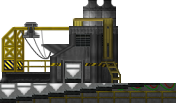
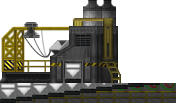
* Raffinerie: Einwurfschacht eingefügt. * Raffinerie: Sound bei Einwurf eines Objekts. * Raffinerie: Grafik aktualisiert. * Script gesäubert.

Changed region(s): [[0.1705, 0.3786, 0.3977, 0.5825], [0.142, 0.3495, 0.1989, 0.4369]]

diff --git a/CMC_LangleyFields.c4s/Structures.c4d/Refinery.c4d/Script.c b/CMC_LangleyFields.c4s/Structures.c4d/Refinery.c4d/Script.c
@@ -29,16 +29,16 @@ protected func Initialize()
   //Ressourcenverarbeitung
   AddEffect("ProcessingResource", this, 1, ProcessingInterval(), this);
 
-	aWaypointX = CreateArray();
-	aWaypointY = CreateArray();
-	aMAVProgress = CreateArray();
-	aMAVs = CreateArray();
-	
-	aWaypointX[0] = GetX();
-	aWaypointY[0] = GetY();
-	
-	aMAVs[0] = CreateObject(WMAV);
-	controlling = -1;
+  aWaypointX = CreateArray();
+  aWaypointY = CreateArray();
+  aMAVProgress = CreateArray();
+  aMAVs = CreateArray();
+
+  aWaypointX[0] = GetX();
+  aWaypointY[0] = GetY();
+
+  aMAVs[0] = CreateObject(WMAV);
+  controlling = -1;
 
   return _inherited(...);
 }
@@ -81,11 +81,17 @@ public func AdditionalStatusMenu(object pMenuObj)
 
 public func AdditionalBuildingMenu(object pMenuObj)
 {
-	AddMenuItem("MAV steuern", "ControlMAV", WMAV, pMenuObj, 0, pMenuObj);
-	return true;
+  AddMenuItem("MAV steuern", "ControlMAV", WMAV, pMenuObj, 0, pMenuObj);
+  return true;
 }
 
 /* Aufnahme von Objekten */
+
+public func Collection()
+{
+  //Effekt
+  Sound("Clonk");
+}
 
 public func Collection2(object pObj)
 {

diff --git a/CMC_LangleyFields.c4s/Structures.c4d/Refinery.c4d/SupplyStock.c4d/Script.c b/CMC_LangleyFields.c4s/Structures.c4d/Refinery.c4d/SupplyStock.c4d/Script.c
@@ -5,7 +5,7 @@
 local basement, stock;
 
 public func MaximumAmount()	{return 1500;}	//Maximalanzahl in Credits
-public func IsSupplyStock()	{return true;}  //Ist Nachschublager
+public func IsSupplyStock()	{return true;}	//Ist Nachschublager
 
 
 /* Initalisierung */
@@ -160,7 +160,7 @@ public func FxResourceStockTimer(object pTarget, int iNr)
     if(temp)
       RemoveObject(temp);
   }
-  
+
   //MAVs beladen
   for(var MAV in FindObjects(Find_Func("IsMAV"), Find_Func("IsCollector"), Find_Distance(80)))
   {
@@ -176,8 +176,8 @@ public func FxResourceStockTimer(object pTarget, int iNr)
     var obj = FindContents(RSCE, MAV);
     if(obj && GetValue(obj) >= 15)
     {
-    	MAV->Full();
-    	continue;
+      MAV->Full();
+      continue;
     }
       
     var e;
